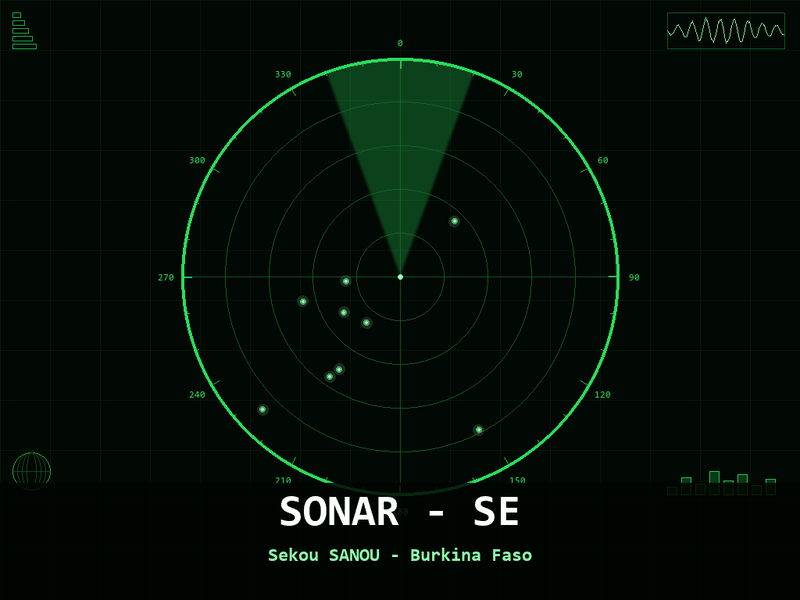
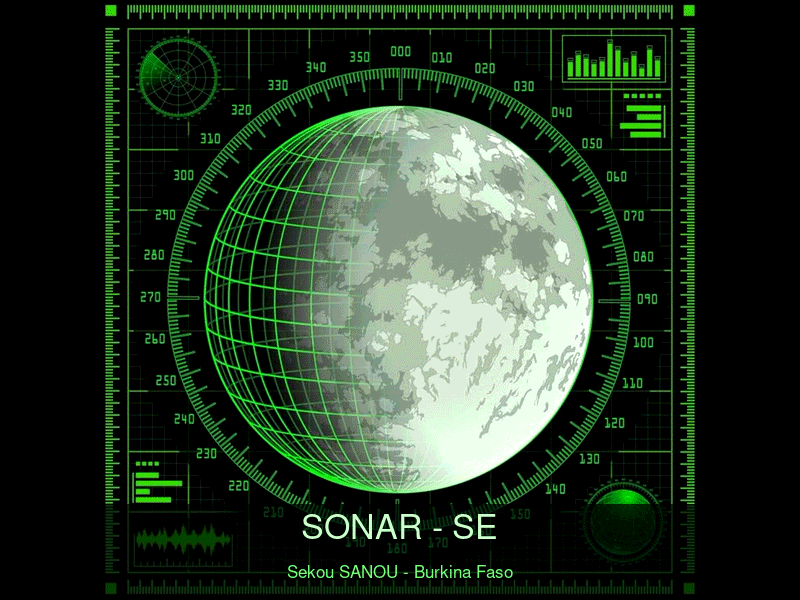
Replace Ventoy background with the radar image, recolor the menu
Confirmed on the HP EliteBook 840 G3: the key boots every ISO with no
code prompt and shows the full-screen background with the menu on top.
New operator-supplied radar/globe image on an 800x600 black canvas (no
distortion at 4:3), SONAR - SE banner baked in, PNG8. Menu colors match.
--self-audit 20/20, --self-test 81 PASS / 0 FAIL (WSL).
SONAR_SKIP_HOOK=1: hook hangs under native Git Bash (python3 stub).

diff --git a/CHANGELOG.md b/CHANGELOG.md
@@ -6,6 +6,29 @@ est la version lisible de l'historique qui vivait jusqu'ici dans l'en-tête de
 ici ET dans un commit Git séparé — le script n'a plus besoin de porter tout
 son propre historique en commentaire.
 
+## [3.41.0-radar-background] — 2026-09-20
+
+### Contexte
+Test réel du 2026-09-20 sur le HP EliteBook 840 G3 : après le fix
+`boot_menu` (3.40.1), la clé démarre **toutes les ISO sans demander de
+code** et affiche le fond personnalisé en plein écran avec les entrées
+de démarrage par-dessus — **confirmé sur matériel**. Ferme le point P0
+« thème Ventoy re-testé sur le HP EliteBook 840 G3 ».
+
+### Changé
+- Nouveau fond fourni par l'opérateur (radar vert / globe, 736×735) :
+  posé sur un canevas noir 800×600 (4:3, comme le `gfxmode` du thème)
+  → aucune déformation quand GRUB l'adapte à l'écran ; bandeau
+  « SONAR - SE / Sekou SANOU - Burkina Faso » incrusté en bas ; PNG8
+  256 couleurs (~139 Ko). Remplace `Branding/default_background.png`
+  (l'ancien globe bleu reste dans l'historique git).
+- Couleurs du menu alignées sur le radar : entrées `#7dff7d`,
+  sélection blanche, panneau sombre teinté vert, texte de version
+  Ventoy `#7dff7d`.
+- Appliqué sur la clé physique (`background.png.bak-globe-bleu` conservé).
+
+`--self-audit` 20/20, `--self-test` 81 PASS, 0 FAIL (WSL).
+
 ## [3.40.1-ventoy-theme-boot-menu] — 2026-09-20
 
 ### Contexte
